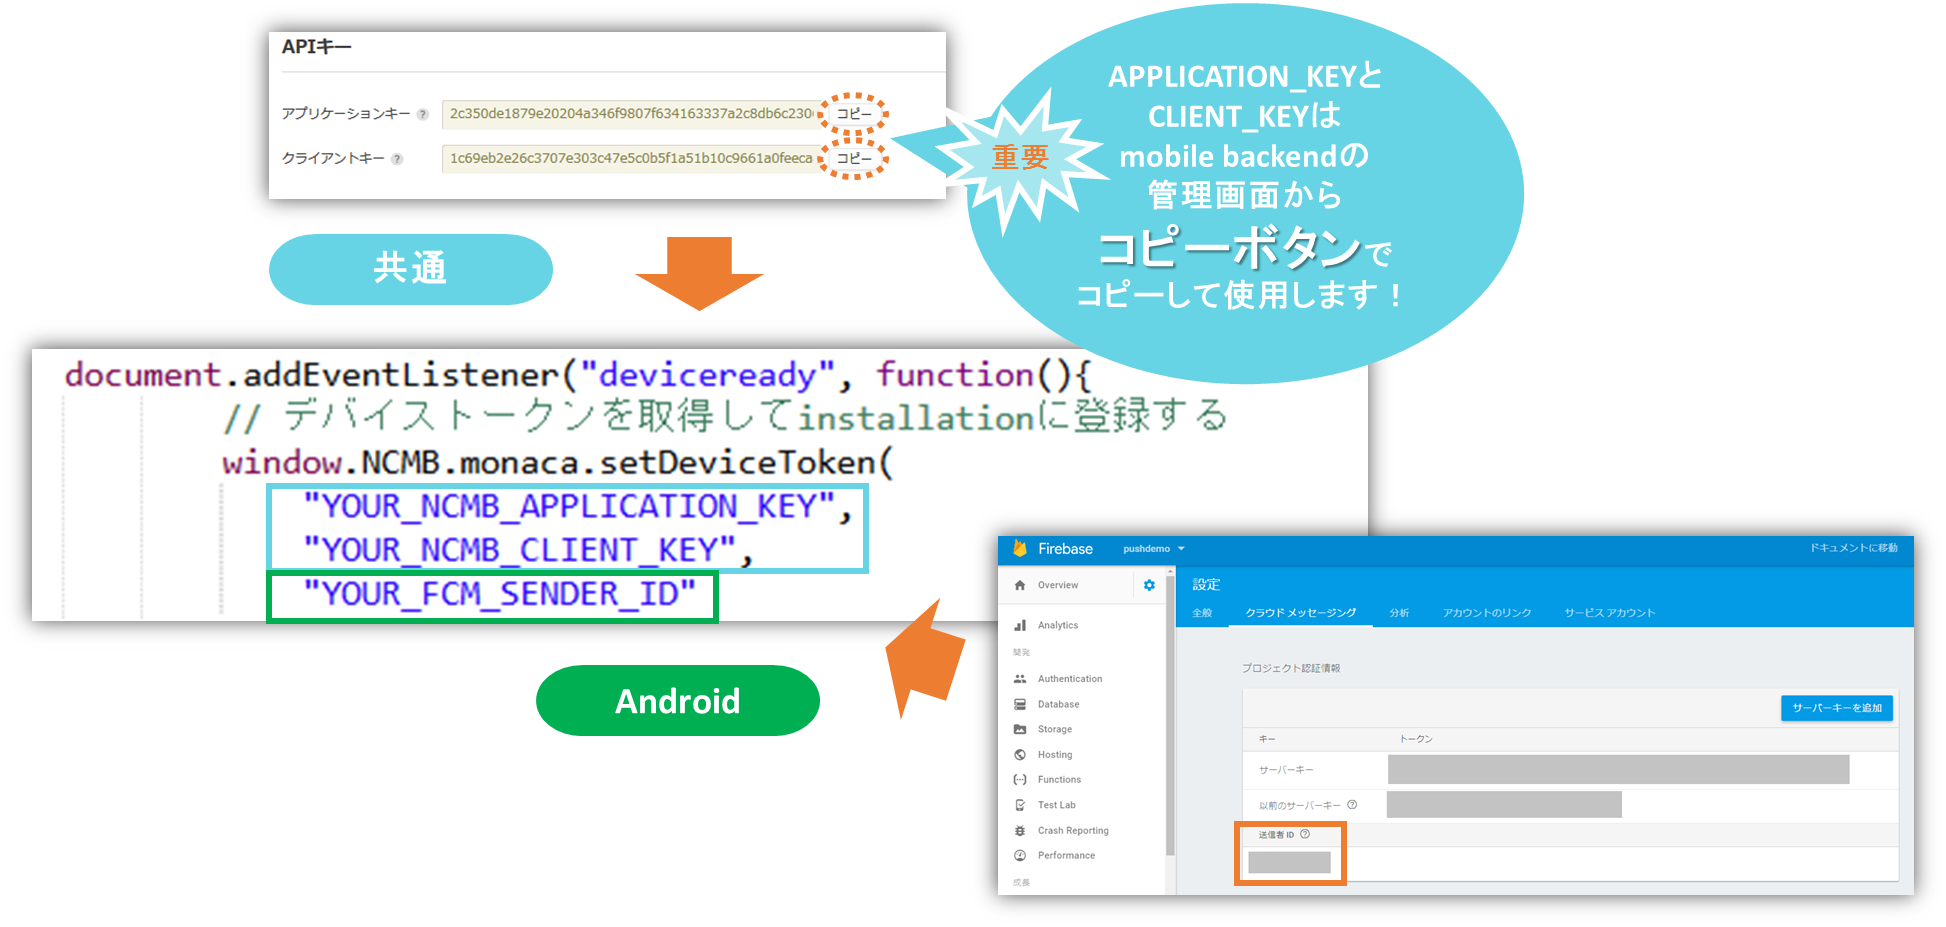
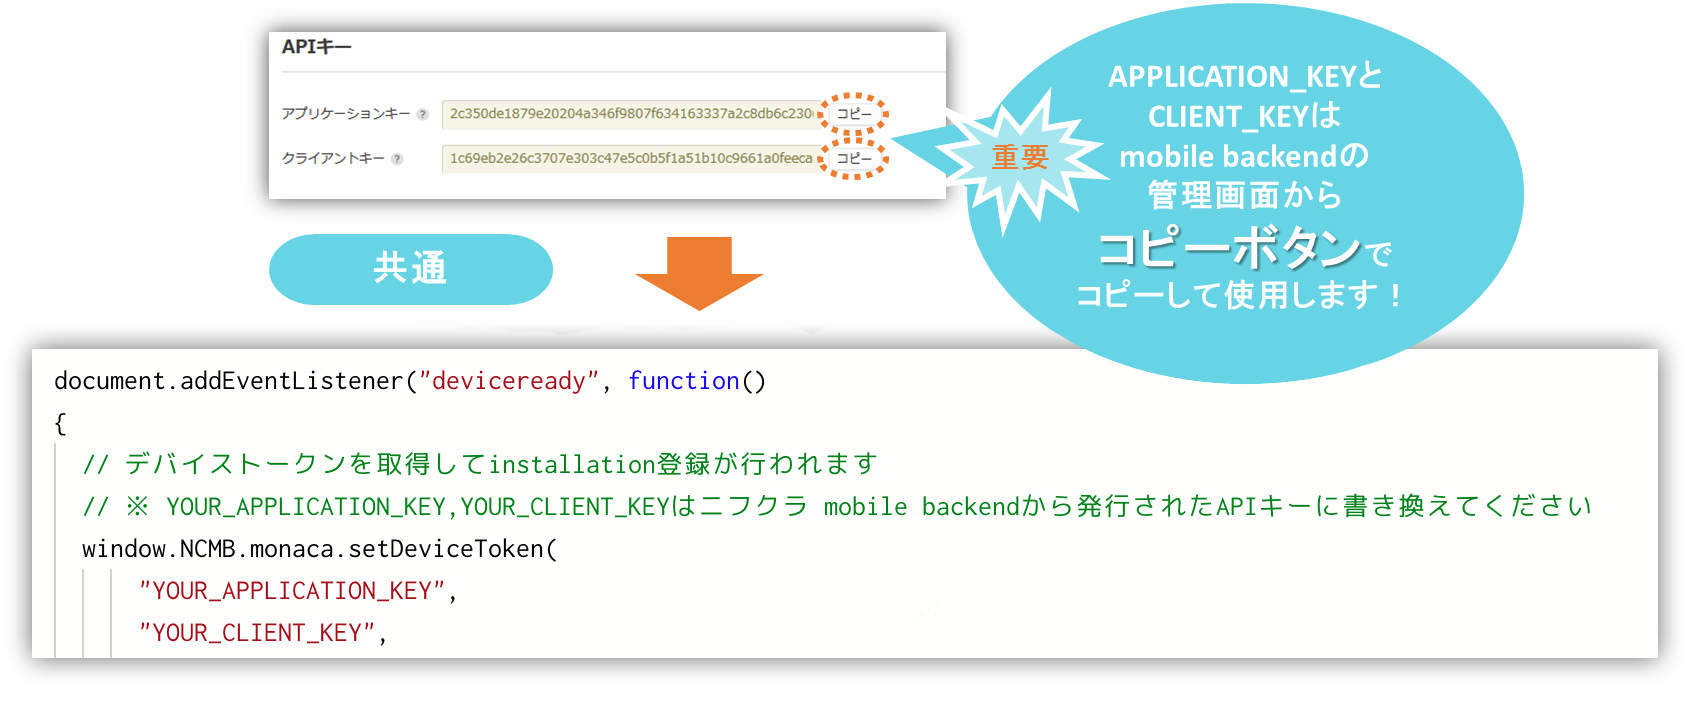
#13 Update readme, image.

diff --git a/README.md b/README.md
@@ -1,4 +1,5 @@
 # <small>【Monaca】<br>アプリにプッシュ通知を組み込もう！</small>
+*2016/09/27作成（2019/03/06更新）*
 
 <center><img src="readme-img/001.png" alt="画像1" width="400px"></center>
 
@@ -60,11 +61,16 @@ __iOSの通知サービス APNs（Apple Push Notification Service）__
 ### 0. プッシュ通知機能を使うための準備
 動作確認を行う端末に応じて該当する内容を準備してください
 
-#### Android端末で動作確認をする場合
- __[Android 端末で動作確認されるかたはこちら](https://mbaas.nifcloud.com/doc/current/tutorial/push_setup_android.html)__
+### Android端末で動作確認をする場合
 
-* ニフクラ  mobile backend と連携させるための APIキー(サーバーキー)と端末情報の登録処理時に必要な Sender ID (送信者ID)を取得する必要があります
-* 下記リンク先のドキュメントを参考に、FCM プロジェクトの作成と APIキー・Sender IDの取得を行ってください
+* Firebaseプロジェクトを作成していただいたあと、下記設定を行っていただく必要があります。
+    * APIキーの取得※2019年3月19日以降廃止
+    * google-service.jsonをアプリに配置
+    * Firebaseプロジェクトの秘密鍵をmobile backendにアップロード
+* 下記リンク先のドキュメントを参考に、FCM プロジェクトの作成と、APIキー・google-services.json・秘密鍵の取得と設定を行ってください
+
+__[Firebaseプロジェクトの作成とAPIキーの取得についてはこちら](https://mbaas.nifcloud.com/doc/current/tutorial/push_setup_android.html)__  
+__[google-services.jsonとFirebase秘密鍵の設定方法についてはこちら](https://mbaas.nifcloud.com/doc/current/common/push_setup_fcm_json.html)__
 
 #### iOS端末で動作確認をする場合
 __[iOS 端末で動作確認されるかたはこちら](https://github.com/NIFCloud-mbaas/iOS_Certificate)__
@@ -98,7 +104,8 @@ __[iOS 端末で動作確認されるかたはこちら](https://github.com/NIFC
 
 <center><img src="readme-img/004.png" alt="画像4" width="500px"></center>
 
-* 続けて、「 __0. プッシュ通知機能を使うための準備__ 」で動作確認端末別に作成した認証キーまたは証明書を設定します
+* 続けて、「 0. プッシュ通知機能を使うための準備 」で動作確認端末別に作成した認証キーまたは証明書を設定します  
+※下記画像は、2019/03/06時点での管理画面画像となります。
 
 <center><img src="readme-img/005.png" alt="画像5" width="500px"></center>
 
@@ -135,8 +142,6 @@ __[iOS 端末で動作確認されるかたはこちら](https://github.com/NIFC
 * `www/index.html`を編集します
   * Monacaでプロジェクトを開くとデフォルトで表示されるファイルです
 * 中ほどにある、`YOUR_NCMB_APPLICATION_KEY`と`YOUR_NCMB_CLIENT_KEY`の部分を、先程 mobile backend のダッシュボード上で確認した APIキーに書き換えます
-* __Android端末で動作確認をする場合__ は、`YOUR_FCM_SENDER_ID`を FCM で発行した Sender ID (送信者ID)に書き換えます
-  * iOS端末で動作確認をする場合は、そのままでOKです
 
 <center><img src="readme-img/i034.png" alt="画像7" width="500px"></center>
 
@@ -194,7 +199,7 @@ __[iOS 端末で動作確認されるかたはこちら](https://github.com/NIFC
 1. iTunesを使う方法
   * ダウンロードしたプロジェクト.ipaをドラッグ＆ドロップ
 1. Xcodeを使う方法
-  * http://docs.monaca.mobi/cur/ja/manual/deploy/non_market_deploy/
+  * https://docs.monaca.io/ja/products_guide/monaca_ide/deploy/non_market_deploy/
 1. DeployGateを使う方法
   * アカウント（無料）を取得し、ダウンロードしたプロジェクト.ipaをドラッグ＆ドロップ
   * https://deploygate.com/
